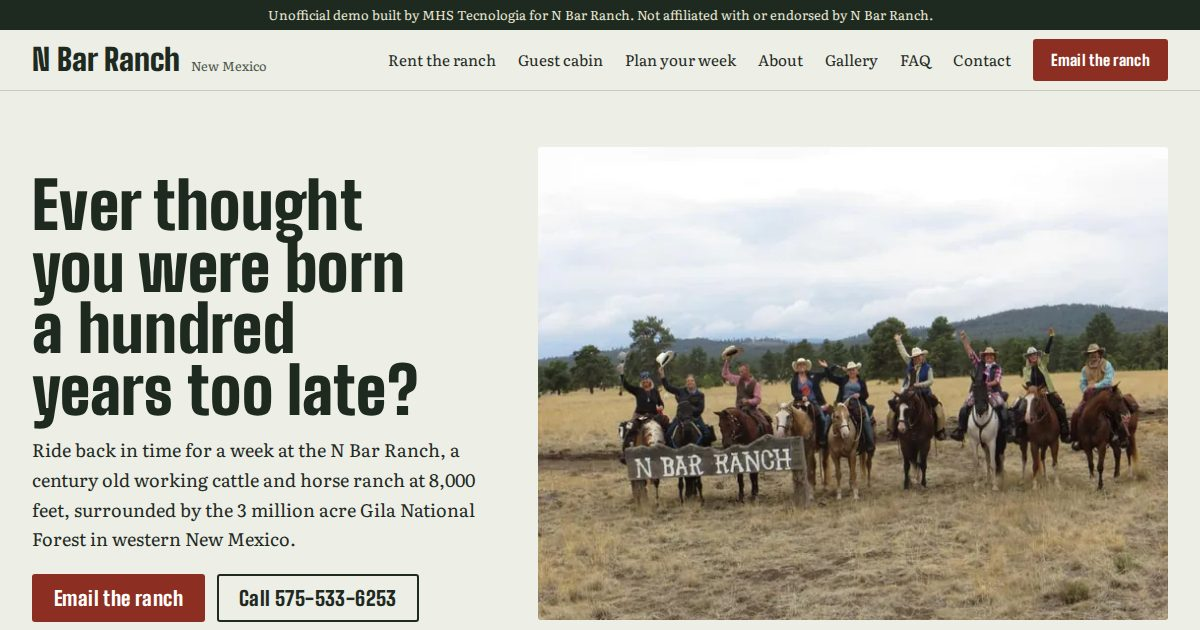
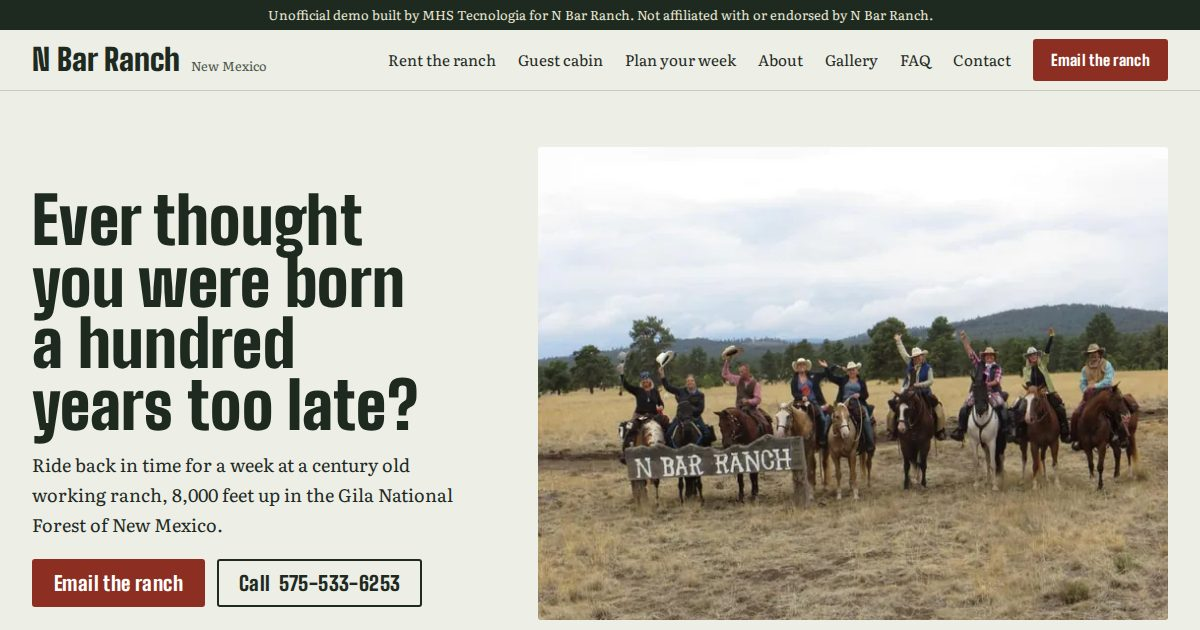
Previews: 162 ativos

Changed region(s): [[0.0308, 0.2714, 0.4008, 0.9952]]

diff --git a/n-bar-ranch-snow-lake-nm/index.html b/n-bar-ranch-snow-lake-nm/index.html
@@ -175,6 +175,10 @@ dialog.lb button{appearance:none;border:2px solid var(--hay);background:none;col
 .hero.inner .lede{font-size:1.0625rem}
 @media(max-width:1023px){.hero.inner{padding:22px 0 12px}.hero.inner figure img{aspect-ratio:2/1;object-fit:cover}}
 @media(min-width:1024px){.hero.inner{padding:44px 0 48px}.hero.inner figure img{aspect-ratio:4/3;object-fit:cover}}
+.band{background:var(--pine)}
+.band img{width:100%;aspect-ratio:2000/850;object-fit:cover;object-position:50% 50%}
+@media(max-width:767px){.band img{aspect-ratio:4/3}}
+@media(max-width:1023px){.hero:not(.inner){padding:20px 0 28px}.hero:not(.inner) .wrap{gap:16px}.hero:not(.inner) .lede{margin:10px 0 16px}.hero .ctas{flex-wrap:nowrap}.hero .num{display:none}.hero:not(.inner) figcaption{display:none}}
 </style>
 <meta property="og:type" content="website">
 <meta property="og:title" content="N Bar Ranch | Ride the Gila National Forest, New Mexico">
@@ -188,7 +192,7 @@ dialog.lb button{appearance:none;border:2px solid var(--hay);background:none;col
 <a class="skip" href="#main">Skip to content</a>
 <div class="demo">Unofficial demo built by MHS Tecnologia for N Bar Ranch. Not affiliated with or endorsed by N Bar Ranch.</div>
 <header class="top"><div class="wrap">
-<a class="mark" href="index.html" aria-label="N Bar Ranch, home">N Bar Ranch <small>New Mexico</small></a>
+<a class="mark" href="index.html" aria-label="N Bar Ranch New Mexico, home">N Bar Ranch <small>New Mexico</small></a>
 <nav class="nav" aria-label="Main"><a href="rent-the-ranch.html">Rent the ranch</a><a href="guest-cabin.html">Guest cabin</a><a href="plan-your-week.html">Plan your week</a><a href="about.html">About</a><a href="gallery.html">Gallery</a><a href="faq.html">FAQ</a><a href="contact.html">Contact</a><a class="btn" href="mailto:nbarranch1@gmail.com">Email the ranch</a>
 <details class="menu"><summary>Menu</summary><nav aria-label="Mobile"><a href="index.html" aria-current="page">Home</a><a href="rent-the-ranch.html">Rent the ranch</a><a href="guest-cabin.html">Guest cabin</a><a href="plan-your-week.html">Plan your week</a><a href="about.html">About</a><a href="gallery.html">Gallery</a><a href="faq.html">FAQ</a><a href="contact.html">Contact</a><a href="mailto:nbarranch1@gmail.com">Email the ranch</a><a href="tel:+15755336253">Call 575-533-6253</a></nav></details>
 </nav></div></header>
@@ -197,12 +201,12 @@ dialog.lb button{appearance:none;border:2px solid var(--hay);background:none;col
 <section class="hero" data-hero><div class="wrap">
 <div>
 <h1>Ever thought you were born a hundred years too late?</h1>
-<p class="lede">Ride back in time for a week at the N Bar Ranch, a century old working cattle and horse ranch at 8,000 feet, surrounded by the 3 million acre Gila National Forest in western New Mexico.</p>
-<div class="ctas"><a class="btn" href="mailto:nbarranch1@gmail.com">Email the ranch</a><a class="btn ghost" href="tel:+15755336253">Call 575-533-6253</a></div>
+<p class="lede">Ride back in time for a week at a century old working ranch, 8,000 feet up in the Gila National Forest of New Mexico.</p>
+<div class="ctas"><a class="btn" href="mailto:nbarranch1@gmail.com">Email the ranch</a><a class="btn ghost" href="tel:+15755336253">Call<span class="num"> 575-533-6253</span></a></div>
 </div>
 <figure>
 <picture>
-<source media="(max-width:1023px)" srcset="img/hero-m.webp 800w" sizes="calc(100vw - 32px)" width="800" height="400">
+<source media="(max-width:1023px)" srcset="img/hero-m.webp 800w" sizes="calc(100vw - 32px)" width="800" height="720">
 <img src="img/hero-960.webp" srcset="img/hero-640.webp 640w, img/hero-960.webp 960w" sizes="(min-width:1280px) 653px, calc((100vw - 120px) * 0.583)" width="960" height="720" alt="Eight riders on horseback waving their hats behind the N Bar Ranch sign, on gold grass with pine hills behind" fetchpriority="high">
 </picture>
 <figcaption>Riders at the N Bar Ranch sign.</figcaption>
@@ -228,6 +232,8 @@ dialog.lb button{appearance:none;border:2px solid var(--hay);background:none;col
 </article>
 </div></div></section>
 
+<div class="band"><img src="img/band-1400.webp" srcset="img/band-800.webp 800w, img/band-1400.webp 1400w, img/band-2000.webp 2000w" sizes="100vw" width="2000" height="850" alt="The sun setting between dark forested hills, with a lone pine on the ridge" loading="lazy" decoding="async"></div>
+
 <section class="alm" aria-labelledby="alm-h"><div class="wrap">
 <div class="head"><h2 id="alm-h">Which week? Here is what each month brings.</h2>
 <p class="intro">The season runs May through September, and weeks start on Sunday. The ranch sits at 8,000 feet and rides go up to 10,000, so it is not the New Mexico summer you may picture.</p></div>
@@ -238,7 +244,7 @@ dialog.lb button{appearance:none;border:2px solid var(--hay);background:none;col
 <section class="creed"><div class="wrap">
 <div>
 <h2>We ain&#8217;t no dude ranch</h2>
-<p>That is their line, not ours. Come for a week only if:</p>
+<p>Come for a week only if:</p>
 <ul class="musts">
 <li>You are at least an intermediate rider, able to saddle and mount unassisted.</li>
 <li>You are in good physical shape. The ranch is at 8,000 feet and three hours from the nearest hospital.</li>

diff --git a/n-bar-ranch-snow-lake-nm/about.html b/n-bar-ranch-snow-lake-nm/about.html
@@ -173,13 +173,17 @@ dialog.lb button{appearance:none;border:2px solid var(--hay);background:none;col
 .hero.inner .lede{font-size:1.0625rem}
 @media(max-width:1023px){.hero.inner{padding:22px 0 12px}.hero.inner figure img{aspect-ratio:2/1;object-fit:cover}}
 @media(min-width:1024px){.hero.inner{padding:44px 0 48px}.hero.inner figure img{aspect-ratio:4/3;object-fit:cover}}
+.band{background:var(--pine)}
+.band img{width:100%;aspect-ratio:2000/850;object-fit:cover;object-position:50% 50%}
+@media(max-width:767px){.band img{aspect-ratio:4/3}}
+@media(max-width:1023px){.hero:not(.inner){padding:20px 0 28px}.hero:not(.inner) .wrap{gap:16px}.hero:not(.inner) .lede{margin:10px 0 16px}.hero .ctas{flex-wrap:nowrap}.hero .num{display:none}.hero:not(.inner) figcaption{display:none}}
 </style>
 </head>
 <body>
 <a class="skip" href="#main">Skip to content</a>
 <div class="demo">Unofficial demo built by MHS Tecnologia for N Bar Ranch. Not affiliated with or endorsed by N Bar Ranch.</div>
 <header class="top"><div class="wrap">
-<a class="mark" href="index.html" aria-label="N Bar Ranch, home">N Bar Ranch <small>New Mexico</small></a>
+<a class="mark" href="index.html" aria-label="N Bar Ranch New Mexico, home">N Bar Ranch <small>New Mexico</small></a>
 <nav class="nav" aria-label="Main"><a href="rent-the-ranch.html">Rent the ranch</a><a href="guest-cabin.html">Guest cabin</a><a href="plan-your-week.html">Plan your week</a><a href="about.html" aria-current="page">About</a><a href="gallery.html">Gallery</a><a href="faq.html">FAQ</a><a href="contact.html">Contact</a><a class="btn" href="mailto:nbarranch1@gmail.com">Email the ranch</a>
 <details class="menu"><summary>Menu</summary><nav aria-label="Mobile"><a href="index.html">Home</a><a href="rent-the-ranch.html">Rent the ranch</a><a href="guest-cabin.html">Guest cabin</a><a href="plan-your-week.html">Plan your week</a><a href="about.html" aria-current="page">About</a><a href="gallery.html">Gallery</a><a href="faq.html">FAQ</a><a href="contact.html">Contact</a><a href="mailto:nbarranch1@gmail.com">Email the ranch</a><a href="tel:+15755336253">Call 575-533-6253</a></nav></details>
 </nav></div></header>

diff --git a/n-bar-ranch-snow-lake-nm/contact.html b/n-bar-ranch-snow-lake-nm/contact.html
@@ -173,13 +173,17 @@ dialog.lb button{appearance:none;border:2px solid var(--hay);background:none;col
 .hero.inner .lede{font-size:1.0625rem}
 @media(max-width:1023px){.hero.inner{padding:22px 0 12px}.hero.inner figure img{aspect-ratio:2/1;object-fit:cover}}
 @media(min-width:1024px){.hero.inner{padding:44px 0 48px}.hero.inner figure img{aspect-ratio:4/3;object-fit:cover}}
+.band{background:var(--pine)}
+.band img{width:100%;aspect-ratio:2000/850;object-fit:cover;object-position:50% 50%}
+@media(max-width:767px){.band img{aspect-ratio:4/3}}
+@media(max-width:1023px){.hero:not(.inner){padding:20px 0 28px}.hero:not(.inner) .wrap{gap:16px}.hero:not(.inner) .lede{margin:10px 0 16px}.hero .ctas{flex-wrap:nowrap}.hero .num{display:none}.hero:not(.inner) figcaption{display:none}}
 </style>
 </head>
 <body>
 <a class="skip" href="#main">Skip to content</a>
 <div class="demo">Unofficial demo built by MHS Tecnologia for N Bar Ranch. Not affiliated with or endorsed by N Bar Ranch.</div>
 <header class="top"><div class="wrap">
-<a class="mark" href="index.html" aria-label="N Bar Ranch, home">N Bar Ranch <small>New Mexico</small></a>
+<a class="mark" href="index.html" aria-label="N Bar Ranch New Mexico, home">N Bar Ranch <small>New Mexico</small></a>
 <nav class="nav" aria-label="Main"><a href="rent-the-ranch.html">Rent the ranch</a><a href="guest-cabin.html">Guest cabin</a><a href="plan-your-week.html">Plan your week</a><a href="about.html">About</a><a href="gallery.html">Gallery</a><a href="faq.html">FAQ</a><a href="contact.html" aria-current="page">Contact</a><a class="btn" href="mailto:nbarranch1@gmail.com">Email the ranch</a>
 <details class="menu"><summary>Menu</summary><nav aria-label="Mobile"><a href="index.html">Home</a><a href="rent-the-ranch.html">Rent the ranch</a><a href="guest-cabin.html">Guest cabin</a><a href="plan-your-week.html">Plan your week</a><a href="about.html">About</a><a href="gallery.html">Gallery</a><a href="faq.html">FAQ</a><a href="contact.html" aria-current="page">Contact</a><a href="mailto:nbarranch1@gmail.com">Email the ranch</a><a href="tel:+15755336253">Call 575-533-6253</a></nav></details>
 </nav></div></header>

diff --git a/n-bar-ranch-snow-lake-nm/faq.html b/n-bar-ranch-snow-lake-nm/faq.html
@@ -173,13 +173,17 @@ dialog.lb button{appearance:none;border:2px solid var(--hay);background:none;col
 .hero.inner .lede{font-size:1.0625rem}
 @media(max-width:1023px){.hero.inner{padding:22px 0 12px}.hero.inner figure img{aspect-ratio:2/1;object-fit:cover}}
 @media(min-width:1024px){.hero.inner{padding:44px 0 48px}.hero.inner figure img{aspect-ratio:4/3;object-fit:cover}}
+.band{background:var(--pine)}
+.band img{width:100%;aspect-ratio:2000/850;object-fit:cover;object-position:50% 50%}
+@media(max-width:767px){.band img{aspect-ratio:4/3}}
+@media(max-width:1023px){.hero:not(.inner){padding:20px 0 28px}.hero:not(.inner) .wrap{gap:16px}.hero:not(.inner) .lede{margin:10px 0 16px}.hero .ctas{flex-wrap:nowrap}.hero .num{display:none}.hero:not(.inner) figcaption{display:none}}
 </style>
 </head>
 <body>
 <a class="skip" href="#main">Skip to content</a>
 <div class="demo">Unofficial demo built by MHS Tecnologia for N Bar Ranch. Not affiliated with or endorsed by N Bar Ranch.</div>
 <header class="top"><div class="wrap">
-<a class="mark" href="index.html" aria-label="N Bar Ranch, home">N Bar Ranch <small>New Mexico</small></a>
+<a class="mark" href="index.html" aria-label="N Bar Ranch New Mexico, home">N Bar Ranch <small>New Mexico</small></a>
 <nav class="nav" aria-label="Main"><a href="rent-the-ranch.html">Rent the ranch</a><a href="guest-cabin.html">Guest cabin</a><a href="plan-your-week.html">Plan your week</a><a href="about.html">About</a><a href="gallery.html">Gallery</a><a href="faq.html" aria-current="page">FAQ</a><a href="contact.html">Contact</a><a class="btn" href="mailto:nbarranch1@gmail.com">Email the ranch</a>
 <details class="menu"><summary>Menu</summary><nav aria-label="Mobile"><a href="index.html">Home</a><a href="rent-the-ranch.html">Rent the ranch</a><a href="guest-cabin.html">Guest cabin</a><a href="plan-your-week.html">Plan your week</a><a href="about.html">About</a><a href="gallery.html">Gallery</a><a href="faq.html" aria-current="page">FAQ</a><a href="contact.html">Contact</a><a href="mailto:nbarranch1@gmail.com">Email the ranch</a><a href="tel:+15755336253">Call 575-533-6253</a></nav></details>
 </nav></div></header>

diff --git a/n-bar-ranch-snow-lake-nm/gallery.html b/n-bar-ranch-snow-lake-nm/gallery.html
@@ -173,13 +173,17 @@ dialog.lb button{appearance:none;border:2px solid var(--hay);background:none;col
 .hero.inner .lede{font-size:1.0625rem}
 @media(max-width:1023px){.hero.inner{padding:22px 0 12px}.hero.inner figure img{aspect-ratio:2/1;object-fit:cover}}
 @media(min-width:1024px){.hero.inner{padding:44px 0 48px}.hero.inner figure img{aspect-ratio:4/3;object-fit:cover}}
+.band{background:var(--pine)}
+.band img{width:100%;aspect-ratio:2000/850;object-fit:cover;object-position:50% 50%}
+@media(max-width:767px){.band img{aspect-ratio:4/3}}
+@media(max-width:1023px){.hero:not(.inner){padding:20px 0 28px}.hero:not(.inner) .wrap{gap:16px}.hero:not(.inner) .lede{margin:10px 0 16px}.hero .ctas{flex-wrap:nowrap}.hero .num{display:none}.hero:not(.inner) figcaption{display:none}}
 </style>
 </head>
 <body>
 <a class="skip" href="#main">Skip to content</a>
 <div class="demo">Unofficial demo built by MHS Tecnologia for N Bar Ranch. Not affiliated with or endorsed by N Bar Ranch.</div>
 <header class="top"><div class="wrap">
-<a class="mark" href="index.html" aria-label="N Bar Ranch, home">N Bar Ranch <small>New Mexico</small></a>
+<a class="mark" href="index.html" aria-label="N Bar Ranch New Mexico, home">N Bar Ranch <small>New Mexico</small></a>
 <nav class="nav" aria-label="Main"><a href="rent-the-ranch.html">Rent the ranch</a><a href="guest-cabin.html">Guest cabin</a><a href="plan-your-week.html">Plan your week</a><a href="about.html">About</a><a href="gallery.html" aria-current="page">Gallery</a><a href="faq.html">FAQ</a><a href="contact.html">Contact</a><a class="btn" href="mailto:nbarranch1@gmail.com">Email the ranch</a>
 <details class="menu"><summary>Menu</summary><nav aria-label="Mobile"><a href="index.html">Home</a><a href="rent-the-ranch.html">Rent the ranch</a><a href="guest-cabin.html">Guest cabin</a><a href="plan-your-week.html">Plan your week</a><a href="about.html">About</a><a href="gallery.html" aria-current="page">Gallery</a><a href="faq.html">FAQ</a><a href="contact.html">Contact</a><a href="mailto:nbarranch1@gmail.com">Email the ranch</a><a href="tel:+15755336253">Call 575-533-6253</a></nav></details>
 </nav></div></header>

diff --git a/n-bar-ranch-snow-lake-nm/guest-cabin.html b/n-bar-ranch-snow-lake-nm/guest-cabin.html
@@ -173,13 +173,17 @@ dialog.lb button{appearance:none;border:2px solid var(--hay);background:none;col
 .hero.inner .lede{font-size:1.0625rem}
 @media(max-width:1023px){.hero.inner{padding:22px 0 12px}.hero.inner figure img{aspect-ratio:2/1;object-fit:cover}}
 @media(min-width:1024px){.hero.inner{padding:44px 0 48px}.hero.inner figure img{aspect-ratio:4/3;object-fit:cover}}
+.band{background:var(--pine)}
+.band img{width:100%;aspect-ratio:2000/850;object-fit:cover;object-position:50% 50%}
+@media(max-width:767px){.band img{aspect-ratio:4/3}}
+@media(max-width:1023px){.hero:not(.inner){padding:20px 0 28px}.hero:not(.inner) .wrap{gap:16px}.hero:not(.inner) .lede{margin:10px 0 16px}.hero .ctas{flex-wrap:nowrap}.hero .num{display:none}.hero:not(.inner) figcaption{display:none}}
 </style>
 </head>
 <body>
 <a class="skip" href="#main">Skip to content</a>
 <div class="demo">Unofficial demo built by MHS Tecnologia for N Bar Ranch. Not affiliated with or endorsed by N Bar Ranch.</div>
 <header class="top"><div class="wrap">
-<a class="mark" href="index.html" aria-label="N Bar Ranch, home">N Bar Ranch <small>New Mexico</small></a>
+<a class="mark" href="index.html" aria-label="N Bar Ranch New Mexico, home">N Bar Ranch <small>New Mexico</small></a>
 <nav class="nav" aria-label="Main"><a href="rent-the-ranch.html">Rent the ranch</a><a href="guest-cabin.html" aria-current="page">Guest cabin</a><a href="plan-your-week.html">Plan your week</a><a href="about.html">About</a><a href="gallery.html">Gallery</a><a href="faq.html">FAQ</a><a href="contact.html">Contact</a><a class="btn" href="mailto:nbarranch1@gmail.com">Email the ranch</a>
 <details class="menu"><summary>Menu</summary><nav aria-label="Mobile"><a href="index.html">Home</a><a href="rent-the-ranch.html">Rent the ranch</a><a href="guest-cabin.html" aria-current="page">Guest cabin</a><a href="plan-your-week.html">Plan your week</a><a href="about.html">About</a><a href="gallery.html">Gallery</a><a href="faq.html">FAQ</a><a href="contact.html">Contact</a><a href="mailto:nbarranch1@gmail.com">Email the ranch</a><a href="tel:+15755336253">Call 575-533-6253</a></nav></details>
 </nav></div></header>

diff --git a/n-bar-ranch-snow-lake-nm/plan-your-week.html b/n-bar-ranch-snow-lake-nm/plan-your-week.html
@@ -173,13 +173,17 @@ dialog.lb button{appearance:none;border:2px solid var(--hay);background:none;col
 .hero.inner .lede{font-size:1.0625rem}
 @media(max-width:1023px){.hero.inner{padding:22px 0 12px}.hero.inner figure img{aspect-ratio:2/1;object-fit:cover}}
 @media(min-width:1024px){.hero.inner{padding:44px 0 48px}.hero.inner figure img{aspect-ratio:4/3;object-fit:cover}}
+.band{background:var(--pine)}
+.band img{width:100%;aspect-ratio:2000/850;object-fit:cover;object-position:50% 50%}
+@media(max-width:767px){.band img{aspect-ratio:4/3}}
+@media(max-width:1023px){.hero:not(.inner){padding:20px 0 28px}.hero:not(.inner) .wrap{gap:16px}.hero:not(.inner) .lede{margin:10px 0 16px}.hero .ctas{flex-wrap:nowrap}.hero .num{display:none}.hero:not(.inner) figcaption{display:none}}
 </style>
 </head>
 <body>
 <a class="skip" href="#main">Skip to content</a>
 <div class="demo">Unofficial demo built by MHS Tecnologia for N Bar Ranch. Not affiliated with or endorsed by N Bar Ranch.</div>
 <header class="top"><div class="wrap">
-<a class="mark" href="index.html" aria-label="N Bar Ranch, home">N Bar Ranch <small>New Mexico</small></a>
+<a class="mark" href="index.html" aria-label="N Bar Ranch New Mexico, home">N Bar Ranch <small>New Mexico</small></a>
 <nav class="nav" aria-label="Main"><a href="rent-the-ranch.html">Rent the ranch</a><a href="guest-cabin.html">Guest cabin</a><a href="plan-your-week.html" aria-current="page">Plan your week</a><a href="about.html">About</a><a href="gallery.html">Gallery</a><a href="faq.html">FAQ</a><a href="contact.html">Contact</a><a class="btn" href="mailto:nbarranch1@gmail.com">Email the ranch</a>
 <details class="menu"><summary>Menu</summary><nav aria-label="Mobile"><a href="index.html">Home</a><a href="rent-the-ranch.html">Rent the ranch</a><a href="guest-cabin.html">Guest cabin</a><a href="plan-your-week.html" aria-current="page">Plan your week</a><a href="about.html">About</a><a href="gallery.html">Gallery</a><a href="faq.html">FAQ</a><a href="contact.html">Contact</a><a href="mailto:nbarranch1@gmail.com">Email the ranch</a><a href="tel:+15755336253">Call 575-533-6253</a></nav></details>
 </nav></div></header>

diff --git a/n-bar-ranch-snow-lake-nm/rent-the-ranch.html b/n-bar-ranch-snow-lake-nm/rent-the-ranch.html
@@ -173,13 +173,17 @@ dialog.lb button{appearance:none;border:2px solid var(--hay);background:none;col
 .hero.inner .lede{font-size:1.0625rem}
 @media(max-width:1023px){.hero.inner{padding:22px 0 12px}.hero.inner figure img{aspect-ratio:2/1;object-fit:cover}}
 @media(min-width:1024px){.hero.inner{padding:44px 0 48px}.hero.inner figure img{aspect-ratio:4/3;object-fit:cover}}
+.band{background:var(--pine)}
+.band img{width:100%;aspect-ratio:2000/850;object-fit:cover;object-position:50% 50%}
+@media(max-width:767px){.band img{aspect-ratio:4/3}}
+@media(max-width:1023px){.hero:not(.inner){padding:20px 0 28px}.hero:not(.inner) .wrap{gap:16px}.hero:not(.inner) .lede{margin:10px 0 16px}.hero .ctas{flex-wrap:nowrap}.hero .num{display:none}.hero:not(.inner) figcaption{display:none}}
 </style>
 </head>
 <body>
 <a class="skip" href="#main">Skip to content</a>
 <div class="demo">Unofficial demo built by MHS Tecnologia for N Bar Ranch. Not affiliated with or endorsed by N Bar Ranch.</div>
 <header class="top"><div class="wrap">
-<a class="mark" href="index.html" aria-label="N Bar Ranch, home">N Bar Ranch <small>New Mexico</small></a>
+<a class="mark" href="index.html" aria-label="N Bar Ranch New Mexico, home">N Bar Ranch <small>New Mexico</small></a>
 <nav class="nav" aria-label="Main"><a href="rent-the-ranch.html" aria-current="page">Rent the ranch</a><a href="guest-cabin.html">Guest cabin</a><a href="plan-your-week.html">Plan your week</a><a href="about.html">About</a><a href="gallery.html">Gallery</a><a href="faq.html">FAQ</a><a href="contact.html">Contact</a><a class="btn" href="mailto:nbarranch1@gmail.com">Email the ranch</a>
 <details class="menu"><summary>Menu</summary><nav aria-label="Mobile"><a href="index.html">Home</a><a href="rent-the-ranch.html" aria-current="page">Rent the ranch</a><a href="guest-cabin.html">Guest cabin</a><a href="plan-your-week.html">Plan your week</a><a href="about.html">About</a><a href="gallery.html">Gallery</a><a href="faq.html">FAQ</a><a href="contact.html">Contact</a><a href="mailto:nbarranch1@gmail.com">Email the ranch</a><a href="tel:+15755336253">Call 575-533-6253</a></nav></details>
 </nav></div></header>
